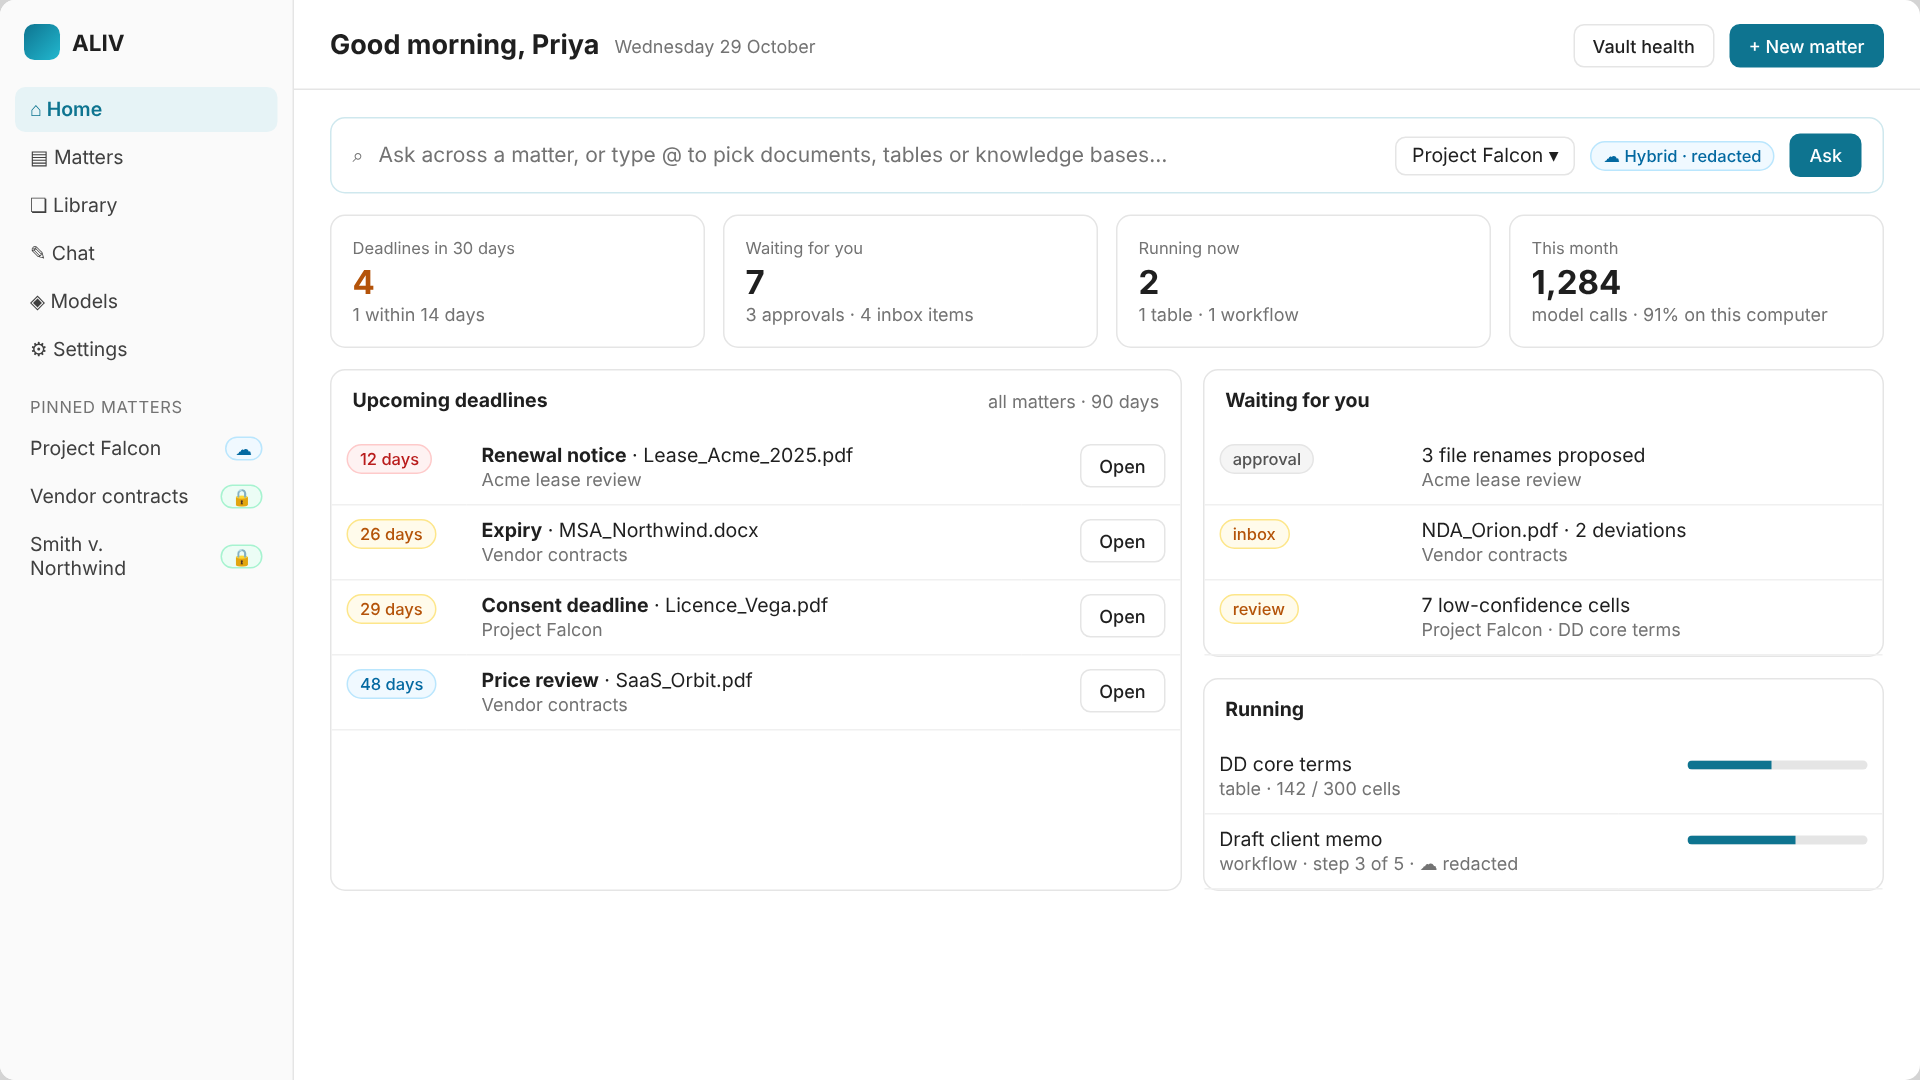
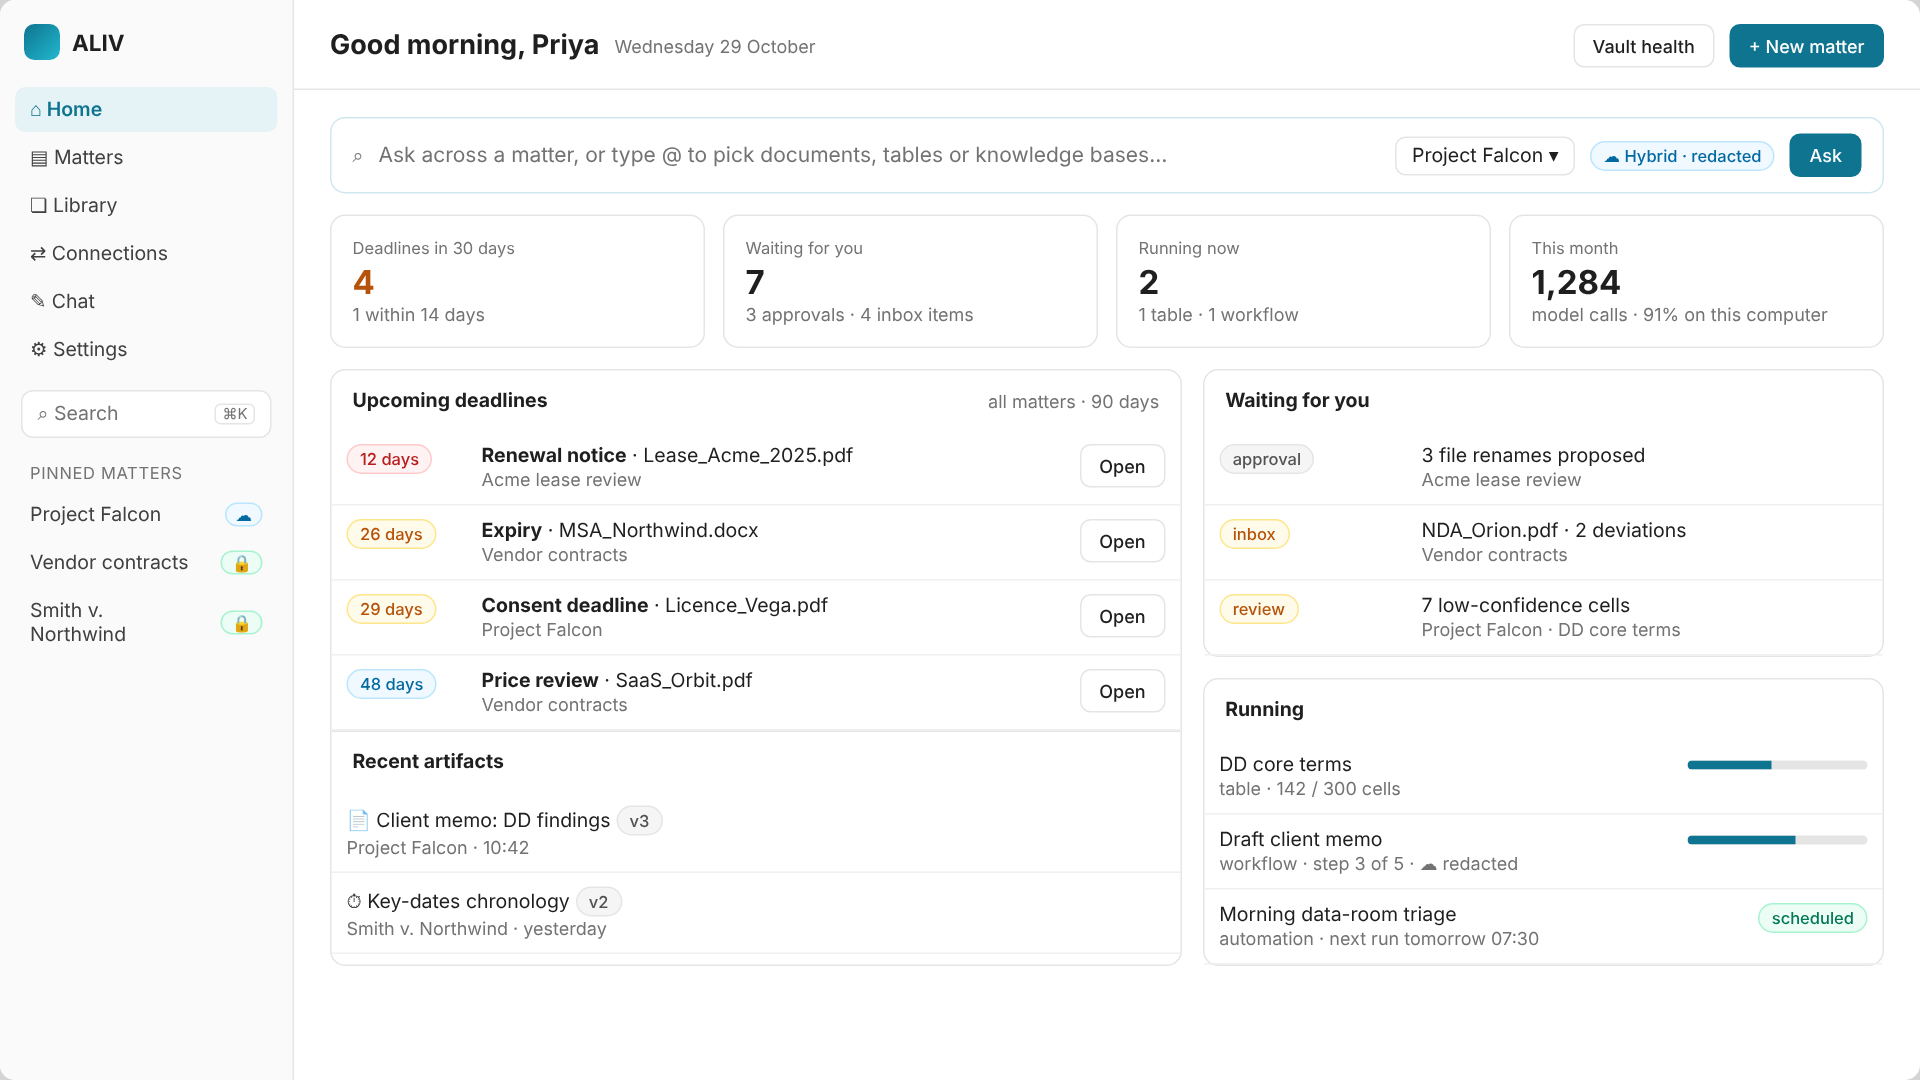
Final docs review and reworked mockups (#26)
* docs: point the repo at the new desktop app, add the plan and CI

- Root README now describes the ALIV desktop app in apps/desktop: what it
  does, how to build it, and how the repository is laid out.
- docs/PLAN.md: the plan to rebuild the legacy app's remaining
  capabilities (OCR, hybrid search, summaries, diagnostics) in the new app,
  retire the legacy app, then write the full product docs.
- Legacy app docs (product document, PRDs, architecture, design, phase
  build guides, demo script) move to docs/archive/legacy-app/ with an index.
  The benchmark suite's defect-backlog JSON stays in place.
- demo/DEMO_GUIDE.md notes that it walks through the legacy app.
- .github/workflows/desktop.yml: on PRs and pushes touching apps/desktop,
  run web lint, type check and tests, plus Rust tests for the desktop lib,
  the CLI (lib, binary and integration tests) and the vault plugin.

Claude-Session: https://claude.ai/code/session_01JwVSXGESoaiGwJRaX1knFA

* ci: fix the first desktop CI run

- Type check with `yarn exec tsc`: `npx tsc` on a clean runner fetched an
  unrelated `tsc` package from npm instead of the workspace's TypeScript.
- Give the Rust jobs a git identity; the plugin-install tests commit to
  scratch repositories and a hosted runner has none configured.
- slash_bare_lists_all_commands raced skills_command_lists_scopes_and_
  marks_shadowing, which creates user skills in the shared test home while
  it runs. The built-ins test now ignores user-scope skills.
[…]

diff --git a/docs/02-product/ALIV_Product-Definition.md b/docs/02-product/ALIV_Product-Definition.md
@@ -27,7 +27,7 @@
 
 **ALIV** gives legal and finance teams the capabilities of enterprise legal AI: cited answers over a document set, review tables, one-click workflows, playbook redlines and custom agents. It does this without requiring them to hand their clients' documents to a vendor's cloud.
 
-Every **matter** is a private vault on the firm's own machines. A **hybrid model router** decides, per matter and per step, whether a model runs locally (llama.cpp, MLX) or in the cloud (OpenAI, Anthropic and others). When the cloud is allowed, only the minimum text is sent, after **redaction**, through one **audited gateway**. Every answer is **cited** to the passage it came from.
+Every **matter** is a private vault and workspace on the firm's own machines: documents, chats, instructions, skills, artifacts and automations in one place. A **hybrid model router** decides, per matter and per step, whether a model runs locally (llama.cpp, MLX) or in the cloud (OpenAI, Anthropic and others). When the cloud is allowed, only the minimum text is sent, after **redaction**, through one **audited gateway**. Every answer is **cited** to the passage it came from. The firm's know-how runs as **skills**, its systems connect through **connectors** and **MCP**, and **automations** keep work moving. Web search, MCP tools and skill scripts pass the same policy check, redaction and audit as model calls.
 
 | | |
 |---|---|
@@ -36,7 +36,7 @@ Every **matter** is a private vault on the firm's own machines. A **hybrid model
 | **Primary buyers** | Small and mid-size law firms, in-house legal, accounting and tax firms, regulated finance teams |
 | **Core promise** | *Harvey-class work product. Your client data stays yours. Every step on the record.* |
 | **Today** | Matters, ingestion with OCR, hybrid search, extraction register, cited Ask, approvals with undo, audit log, vault health |
-| **Next** | Model gateway, redaction and router → Review Tables, Workflows, Playbooks → Agent Builder → Firm Server |
+| **Next** | Gateway, redaction, router and matter workspace, with web search, MCP and skills under policy → Review Tables, Workflows, Playbooks, Artifacts → Agent Builder, Automation, Connectors → Firm Server |
 
 ---
 
@@ -87,7 +87,9 @@ Every **matter** is a private vault on the firm's own machines. A **hybrid model
 4. **Everything cited.** Every generated statement links to a source passage or register entry. Uncited output is labelled as such.
 5. **Everything on the record.** Model calls (allowed and refused), file changes and agent steps go into a hash-chained audit log.
 6. **Humans approve changes.** File changes, redlines and outbound actions are proposals until a person approves them, and they can be undone.
-7. **Deterministic where possible.** Parsing, OCR, extraction rules, search and summaries are deterministic and testable. Models are used where judgement is needed.
+7. **No side doors.** Web search, MCP tools, skill scripts and connectors are governed exactly like model calls: policy check, redaction, approval for actions, audit.
+8. **Open standards, firm-controlled.** MCP and `SKILL.md` skills connect ALIV to the firm's tools and know-how; trust levels and per-matter allow-lists decide what runs.
+9. **Deterministic where possible.** Parsing, OCR, extraction rules, search and summaries are deterministic and testable. Models are used where judgement is needed.
 
 ---
 
@@ -156,8 +158,8 @@ Feature IDs refer to the [Feature Spec](../04-specs/ALIV_Feature-Spec.md). The p
 
 | Tier | For | Includes | Indicative price* |
 |---|---|---|---|
-| **Solo** | Individual lawyers and accountants | Desktop app, local models, R0–R2 features | $39–59 / user / month, or a perpetual licence with a yearly update plan |
-| **Team** | Firms of 2–50 | Solo, plus Agent Builder, shared clause library and playbooks, priority support | $79–129 / user / month |
+| **Solo** | Individual lawyers and accountants | Desktop app, local models, R0–R2 features, built-in skill packs | $39–59 / user / month, or a perpetual licence with a yearly update plan |
+| **Team** | Firms of 2–50 | Solo, plus Agent Builder, automation, connectors, firm skill library, shared clause library and playbooks, priority support | $79–129 / user / month |
 | **Firm Server** | Firms needing shared vaults and admin | Self-hosted server, roles, SSO, central audit | Per-server licence plus per-user fee |
 | **Enterprise / private cloud** | Larger firms, in-house at regulated companies | Private deployment, compliance pack, custom agents | Annual contract |
 
@@ -175,11 +177,12 @@ Cloud model usage is billed by the provider under the customer's own API key (br
 | **Hardware** | Minimum 16 GB RAM. Recommended 32 GB, or Apple Silicon M-series Pro/Max, for 14B+ local models |
 | **Local models** | llama.cpp (GGUF) and MLX. A recommended model per hardware tier. A local embedding model is required for meaning search |
 | **Cloud models** | OpenAI-compatible and Anthropic APIs via the gateway. Customer-supplied keys |
-| **Data at rest** | One SQLite vault per installation (R0). Encryption at rest planned for R1; until then, full-disk encryption |
+| **Data at rest** | One SQLite vault per installation (R0). Encryption at rest planned on the GA track (alongside R2–R3); until then, full-disk encryption |
 | **Performance** | Ingestion ≥ 5 text documents/s on a 2023 laptop. Ask first token ≤ 3 s with a local 7–8B model. Search ≤ 300 ms on 10k passages |
 | **Reliability** | Ingestion resumable; unchanged files skipped; no data loss on crash (SQLite WAL) |
 | **Auditability** | 100% of model calls and file changes in the hash chain; integrity check on demand |
 | **Accessibility** | WCAG 2.1 AA for core screens |
+| **Integrations** | MCP (client in R1 under policy; ALIV as a server in R4); read-only DMS and mail connectors (R3); SKILL.md skills and git plugins |
 | **Updates** | Signed installers and an update server (planned before general availability) |
 
 ---
@@ -192,6 +195,8 @@ Cloud model usage is billed by the provider under the customer's own API key (br
 | **Value** | Hours saved per diligence matter (self-reported, pilot cohort) | ≥ 50% vs baseline |
 | **Accuracy** | Review Table cells judged correct and correctly cited in pilot audits | ≥ 95% |
 | **Trust** | Matters set to Local only that never recorded a cloud call | 100% (a hard guarantee, measured from the audit log) |
+| **Trust** | Web search, MCP and skill-script calls that passed the gateway's policy check | 100% (no side doors; measured from `tool_calls`) |
+| **Leverage** | Firm skills in active use per firm (Team tier) | ≥ 10 |
 | **Engagement** | Weekly active users / paid seats | ≥ 60% |
 | **Workflow adoption** | Share of active users running ≥ 1 workflow or agent a week | ≥ 40% |
 | **Retention** | Logo retention at 12 months | ≥ 85% |

diff --git a/docs/05-design/ALIV_UI-Spec.md b/docs/05-design/ALIV_UI-Spec.md
@@ -45,7 +45,8 @@ App shell (left sidebar from the base app)
 | Counters | Deadlines in 30 days, waiting for you, running now, model calls this month with the share run locally |
 | Upcoming deadlines | All matters, 90 days, DaysPill; Open jumps to the clause |
 | Waiting for you | Approvals, inbox items (R3), cells needing review (R2) |
-| Running | Tables and workflows with progress; click opens the run log |
+| Running | Tables, workflows and scheduled automations with progress; click opens the run log |
+| Recent artifacts | Latest versioned outputs across matters (R2) |
 | Sidebar | Pinned matters with their policy icon |
 
 **Matters** (shipped) lists every matter and is the landing screen until Home ships.
@@ -66,6 +67,8 @@ App shell (left sidebar from the base app)
 ---
 
 ## 3. Matter tabs
+
+Full tab order once R1–R3 ship: **Overview · Chats · Ask · Register · Tables · Workflows · Artifacts · Documents · Approvals · Inbox · Automations · Audit log**. Chats, Artifacts and Automations are specified in §5a.
 
 ### 3.1 Overview ✅
 StatCards: documents indexed (with needs-attention hint), upcoming deadlines, pending approvals, last activity. Lists: next deadlines, documents needing attention (skipped/failed with reason). Quick ask box → Ask tab.
@@ -154,16 +157,16 @@ Entries: time, kind, summary, expandable detail. Verify integrity → success or
 
 | Screen | Behaviour | IDs |
 |---|---|---|
-| **Matter settings › Workspace** (R1) | Matter instructions (client, our side, objectives, house style); linked source folders with last-scan time and Re-scan; output folder (R2) | WS-02/03/04 |
+| **Matter settings › Workspace** (R1) · [mockup](../assets/mockups/workspace-settings.png) | Matter instructions (client, our side, objectives, house style); linked source folders with last-scan time and Re-scan; output folder (R2) | WS-02/03/04 |
 | **Matter settings › Skills & tools** (R1) | Enabled skills with trust badge (built-in, firm, personal, third-party) and version; allowed MCP servers with trust level; web search on/off (Hybrid only) | WS-06, SKL-01/02, MCP-02, SRCH-10 |
 | **Chats tab** (R1) | Threads inside the matter; each message shows its RoutePill and the skills used; `/` opens enabled skills | WS-01, SKL-01 |
 | **Skill review dialog** (R1) | Full SKILL.md, bundled files and scripts, trust level, source; Enable is disabled for third-party skills on Local only matters | SKL-03/04 |
 | **Approval card for tools and scripts** (R1) | Tool or script name, server or skill, exactly what will be sent or changed; Approve / Reject | MCP-04, SKL-04 |
-| **Artifacts tab** (R2) | Grid or list: type icon, title, version, author, route, skills; open shows the artifact with citations, version history and diff; Export; Save to output folder (proposal) | ART-01–05 |
+| **Artifacts tab** (R2) · [mockup](../assets/mockups/artifacts.png) | Grid or list: type icon, title, version, author, route, skills; open shows the artifact with citations, version history and diff; Export; Save to output folder (proposal) | ART-01–05 |
 | **Global search** (R2) | ⌘K; results grouped by type and labelled by matter and tier (this matter / firm knowledge / web) | SRCH-09/11 |
 | **Connections › Connectors** (R3) | Add iManage, NetDocuments, SharePoint, Drive, Box, Outlook/Gmail; pick workspaces or folders; link to a matter; sync status, last sync, errors | CON-01–06 |
 | **Connections › MCP servers** (R1) | Servers with trust level, tools list, firm allow/block status, test connection | MCP-01/07 |
-| **Automations tab** (R3) | List of automations (trigger, action, last run, next run, on/off); editor: trigger, action (workflow, agent or skill), matter, schedule; run history with retry and pause | AUTO-01–07 |
+| **Automations tab** (R3) · [mockup](../assets/mockups/automations.png) | List of automations (trigger, action, last run, next run, on/off); editor: trigger, action (workflow, agent or skill), matter, schedule; run history with retry and pause | AUTO-01–07 |
 | **Library › Skills** (R1–R3) | My, firm and built-in skills; Import (hub or git plugin); editor; publish with change note (R3); Skill Builder from a chat (R3) | SKL-06–08 |
 
 ## 5b. Admin interface

diff --git a/docs/05-design/ALIV_Wireframes.md b/docs/05-design/ALIV_Wireframes.md
@@ -7,7 +7,7 @@ Low-fidelity layouts for the [UI Spec](ALIV_UI-Spec.md). ✅ marks shipped scree
 
 ## High-fidelity mockups
 
-Rendered with the app's design tokens ([Design System](ALIV_Design-System.md)). These are **mockups of planned screens**, not screenshots; the data is fictional.
+Rendered with the app's design tokens ([Design System](ALIV_Design-System.md)). These are **mockups of planned screens**, not screenshots; the data is fictional. All screens use the full navigation (Home, Matters, Library, Connections, Chat, Settings, ⌘K search) and the full matter tab order.
 
 | Screen | Release | Image |
 |---|---|---|
@@ -18,6 +18,9 @@ Rendered with the app's design tokens ([Design System](ALIV_Design-System.md)). 
 | Inbox (W-11) | R3 | ![Inbox](../assets/mockups/inbox.png) |
 | Admin settings on the desktop (W-13) | R1 | ![Desktop admin](../assets/mockups/admin-desktop.png) |
 | Firm Server Admin Console (W-14) | R4 | ![Admin Console](../assets/mockups/admin-console.png) |
+| Matter workspace settings: instructions, folders, connectors, skills, MCP, web search (W-15) | R1–R3 | ![Workspace settings](../assets/mockups/workspace-settings.png) |
+| Artifacts tab with version, route and skills (W-17) | R2 | ![Artifacts](../assets/mockups/artifacts.png) |
+| Automations with triggers and run history (W-19) | R3 | ![Automations](../assets/mockups/automations.png) |
 
 ---
 
@@ -29,7 +32,8 @@ The landing screen once tables, workflows and monitors exist. It shows:
 - four counters: deadlines in 30 days, waiting for you, running now, model calls this month with the local share;
 - upcoming deadlines across all matters;
 - "Waiting for you": approvals, inbox items, cells needing review;
-- running tables and workflows with progress.
+- running tables, workflows and scheduled automations;
+- recent artifacts.
 
 Pinned matters sit in the sidebar with their policy icon. See the [mockup](../assets/mockups/home.png). Until R1, the Matters home (W-1) is the landing screen.
 
@@ -59,7 +63,7 @@ Pinned matters sit in the sidebar with their policy icon. See the [mockup](../as
 
 ```
 ┌─ Acme lease review  🔒 Local only ─────────────────────────────────────── ⋯ ┐
-│ Overview  [Ask]  Register  Tables  Workflows  Documents  Approvals  Audit     │
+│ Overview Chats [Ask] Register Tables Workflows Artifacts Documents Approvals… │
 ├───────────────────────────────────────────────┬──────────────────────────────┤
 │ [Model: Qwen 8B ▾]        (● This computer)   │ Sources                      │
 │ ┌───────────────────────────────────────────┐ │ ┌──────────────────────────┐ │

diff --git a/docs/06-technical/ALIV_System-Architecture.md b/docs/06-technical/ALIV_System-Architecture.md
@@ -13,12 +13,17 @@
                 │   ├─ Web UI (React)  ──IPC──▶  Rust core (Tauri)                  │
                 │   │                              ├─ Vault (SQLite)                │
                 │   │                              ├─ Local engines (llama.cpp/MLX) │
-                │   │                              └─ OCR (Tesseract, pdftoppm)     │
+                │   │                              ├─ OCR (Tesseract, pdftoppm)     │
+                │   │                              ├─ Skills, MCP client, web search│
+                │   │                              └─ Gateway (R1): every exit path │
                 │  Documents on disk / file shares (read in place)                  │
-                └──────────────────────────────┬────────────────────────────────────┘
-                                               │ Hybrid matters only (R1: via gateway, redacted)
-                                               ▼
-                                Cloud model providers (OpenAI-compatible, Anthropic)
+                │  Local MCP servers (no network)                                   │
+                └───────────┬──────────────────┬───────────────────┬────────────────┘
+          Hybrid only, redacted, audited       │ policy + audit    │ inbound, read-only (R3)
+                            ▼                  ▼                   ▼
+         Cloud model providers     Web search · firm/3rd-party   DMS, SharePoint,
+         (OpenAI-compatible,       MCP servers                    Drive, Box, mail
+          Anthropic)                                              (connectors)
 ```
 
 **Later deployments:** the Firm Server (R4) hosts shared vaults for many desktops. See [Deployment Architecture](ALIV_Deployment-Architecture.md).

diff --git a/docs/06-technical/ALIV_Deployment-Architecture.md b/docs/06-technical/ALIV_Deployment-Architecture.md
@@ -35,7 +35,7 @@
 | **OCR dependencies** | Tesseract and poppler are detected at runtime. Missing tools are reported in Vault health. Bundling is planned for GA (macOS/Windows) |
 | **Models** | Downloaded on first run from the model catalogue, or side-loaded (GGUF) for air-gapped sites |
 | **Air-gapped install** | Supported: offline installer, side-loaded models, updater disabled, Local only matters |
-| **Managed install** | MDM (Intune, Jamf) deploys the installer and a policy file: defaults (Local only forced, allowed providers, updater URL) |
+| **Managed install** | MDM (Intune, Jamf) deploys the installer and a policy file: defaults (Local only forced, allowed providers, web search on/off, allowed MCP servers and skill sources, updater URL) |
 | **Backup** | `vault.db` can be backed up with the firm's existing tools while the app is closed; documents are backed up as usual |
 
 ## 3. Firm Server (R4)

diff --git a/docs/01-brand/ALIV_Brand-Identity.md b/docs/01-brand/ALIV_Brand-Identity.md
@@ -90,5 +90,7 @@ Details and tokens: [Design System](../05-design/ALIV_Design-System.md).
 | New matters are Local only by default | Identities are redacted before cloud calls (R1) | "100% accurate" |
 | Answers cite their sources | Vault encrypted at rest (GA) | "Replaces lawyers" |
 | Tamper-evident audit log | SOC 2 (only once audited) | "Certified compliant" without a certificate |
+| Skills and MCP are supported (base app) | Web search, MCP and skills follow matter policy (R1) | "Every tool is safe" |
+| | Connectors to iManage, SharePoint… (R3) | "Integrates with everything" |
 
 The source of truth for security claims is [`security.md`](../guides/security.md).

diff --git a/docs/07-implementation/ALIV_Implementation-Phases.md b/docs/07-implementation/ALIV_Implementation-Phases.md
@@ -38,7 +38,7 @@
 
 ## Phase 1: Hybrid foundation (R1)
 
-**Goal:** every model call goes through one audited Rust gateway, with routing per step and redaction before any cloud call.
+**Goal:** every model call, web search, MCP tool call and skill script goes through one audited Rust gateway, with routing per step and redaction before anything leaves; the matter becomes the workspace for chats.
 
 | # | Work | Feature IDs | Exit criteria |
 |---|---|---|---|
